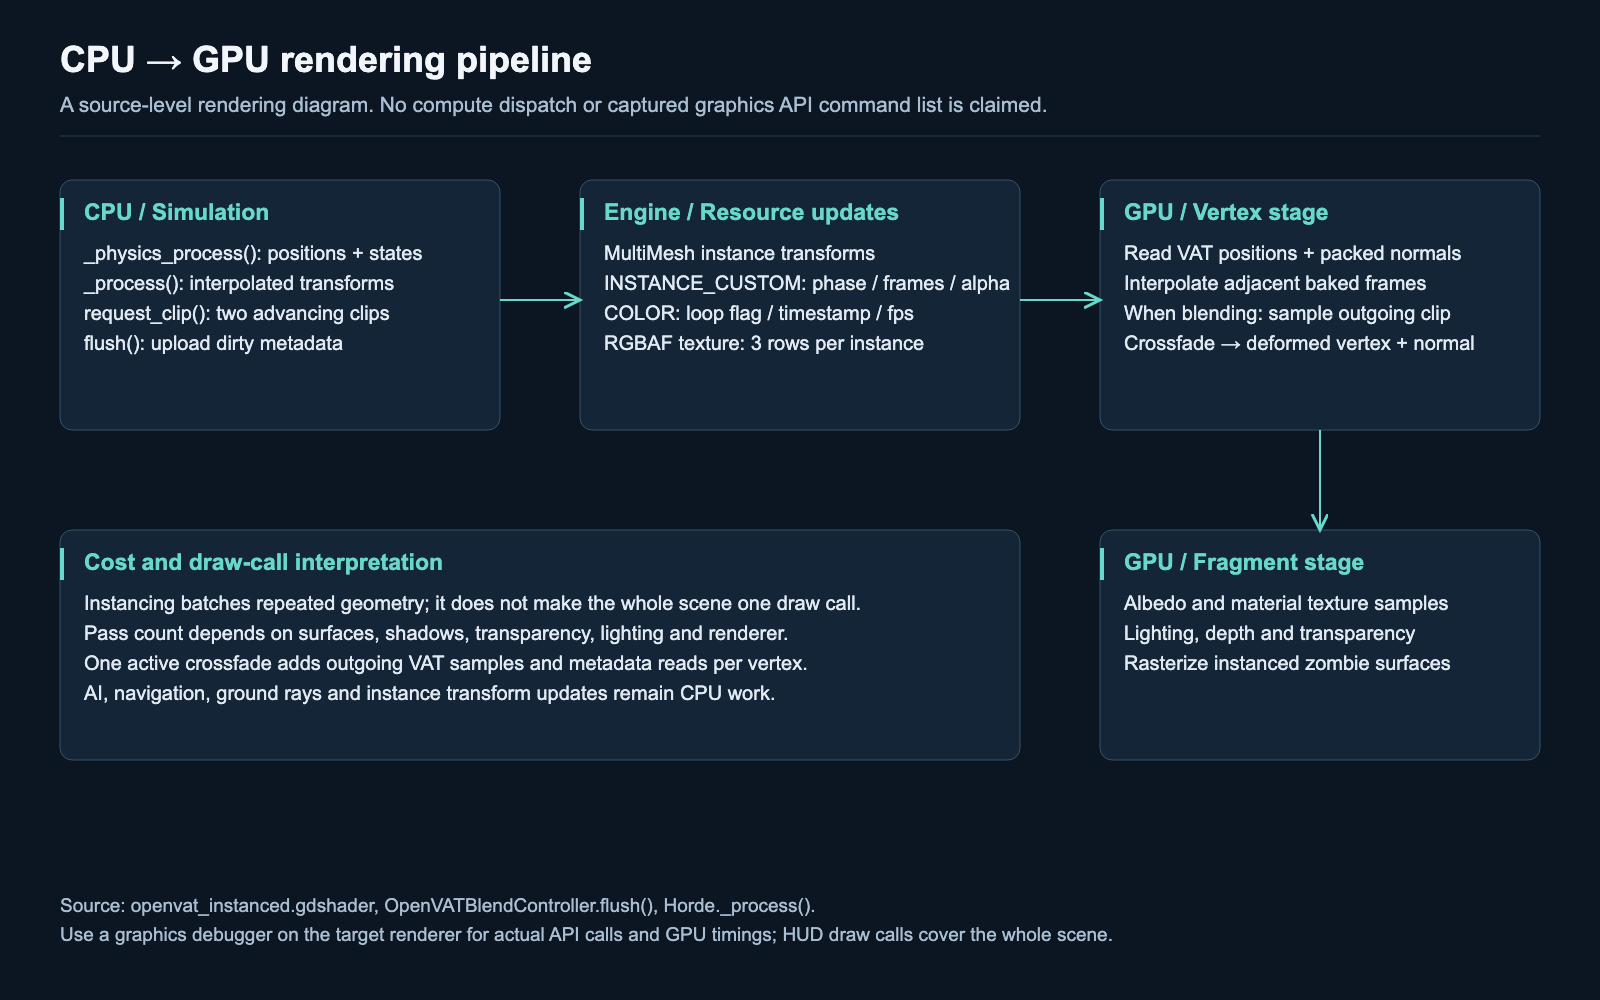
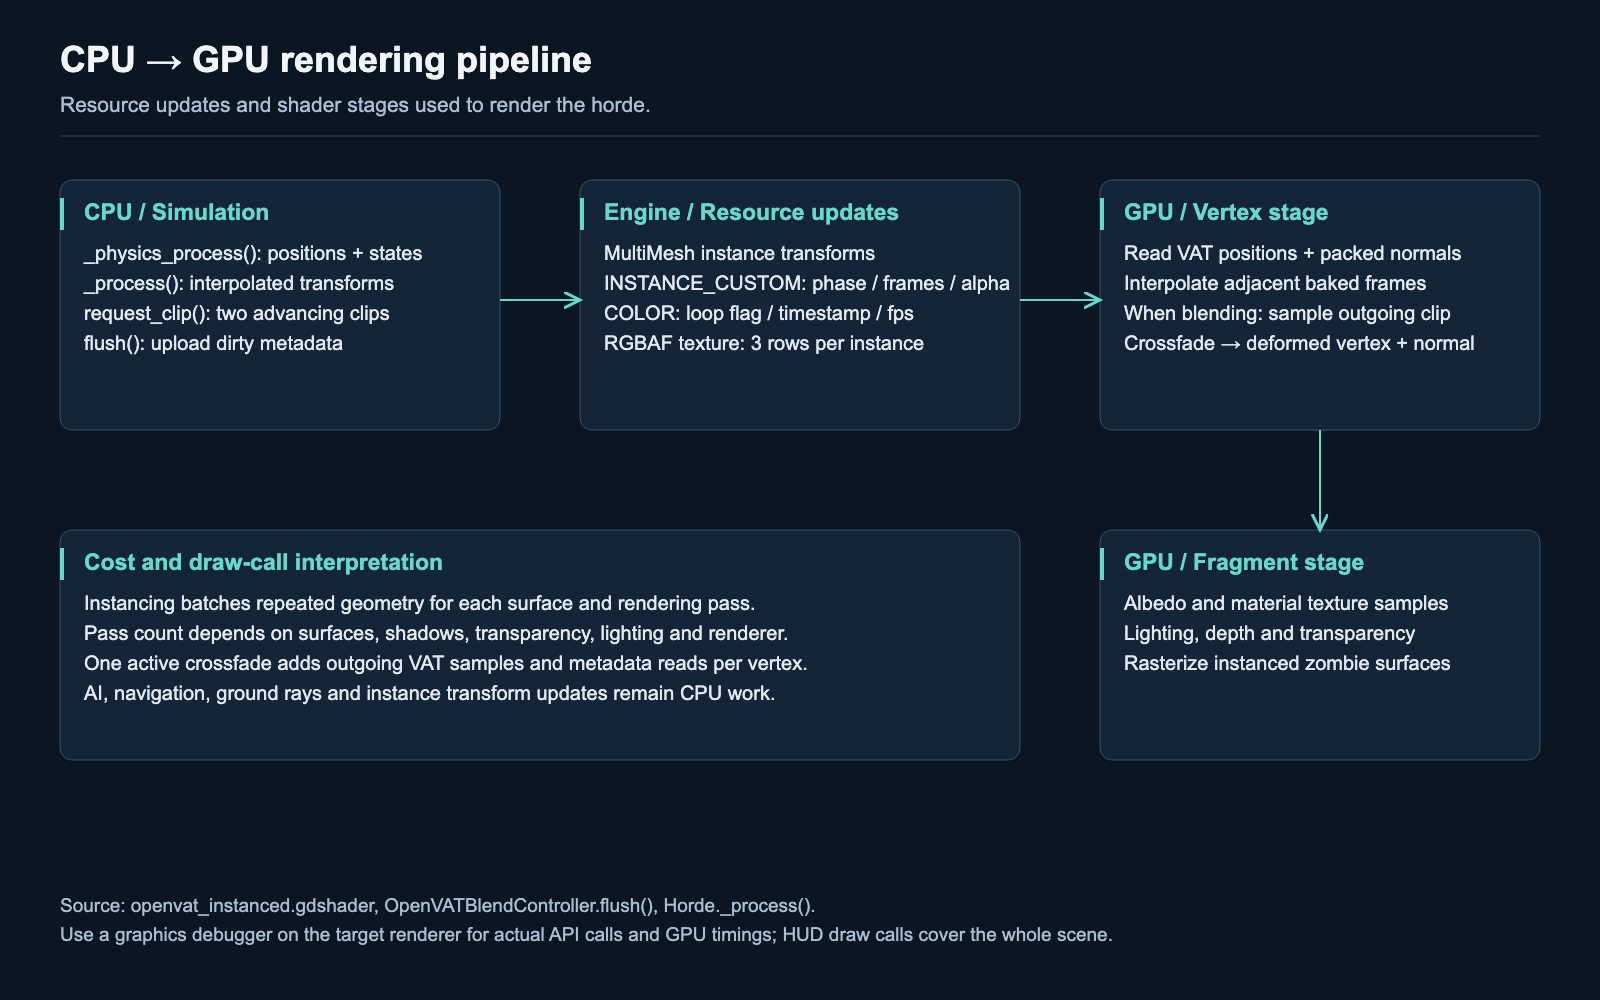
docs: write showcase documentation for repository visitors

Changed region(s): [[0.0312, 0.093, 0.6562, 0.124], [0.25, 0.589, 0.5312, 0.62]]

diff --git a/tools/build_diagrams.py b/tools/build_diagrams.py
@@ -28,12 +28,12 @@ diagram('workflow','Horde simulation workflow','Fixed physics updates own state.
 'Array iteration stays O(N). Spatial hashing narrows candidates; dense cells and path queues can still be costly.'
 ])
 
-diagram('gpu-pipeline','CPU → GPU rendering pipeline','A source-level rendering diagram. No compute dispatch or captured graphics API command list is claimed.',[
+diagram('gpu-pipeline','CPU → GPU rendering pipeline','Resource updates and shader stages used to render the horde.',[
 (60,180,440,250,'CPU / Simulation',['_physics_process(): positions + states','_process(): interpolated transforms','request_clip(): two advancing clips','flush(): upload dirty metadata']),
 (580,180,440,250,'Engine / Resource updates',['MultiMesh instance transforms','INSTANCE_CUSTOM: phase / frames / alpha','COLOR: loop flag / timestamp / fps','RGBAF texture: 3 rows per instance']),
 (1100,180,440,250,'GPU / Vertex stage',['Read VAT positions + packed normals','Interpolate adjacent baked frames','When blending: sample outgoing clip','Crossfade → deformed vertex + normal']),
 (1100,530,440,230,'GPU / Fragment stage',['Albedo and material texture samples','Lighting, depth and transparency','Rasterize instanced zombie surfaces']),
-(60,530,960,230,'Cost and draw-call interpretation',['Instancing batches repeated geometry; it does not make the whole scene one draw call.','Pass count depends on surfaces, shadows, transparency, lighting and renderer.','One active crossfade adds outgoing VAT samples and metadata reads per vertex.','AI, navigation, ground rays and instance transform updates remain CPU work.']),
+(60,530,960,230,'Cost and draw-call interpretation',['Instancing batches repeated geometry for each surface and rendering pass.','Pass count depends on surfaces, shadows, transparency, lighting and renderer.','One active crossfade adds outgoing VAT samples and metadata reads per vertex.','AI, navigation, ground rays and instance transform updates remain CPU work.']),
 ],['M500 300H580','M1020 300H1100','M1320 430V530'],[
 'Source: openvat_instanced.gdshader, OpenVATBlendController.flush(), Horde._process().',
 'Use a graphics debugger on the target renderer for actual API calls and GPU timings; HUD draw calls cover the whole scene.'
@@ -41,7 +41,7 @@ diagram('gpu-pipeline','CPU → GPU rendering pipeline','A source-level renderin
 
 diagram('spatial-and-lifecycle','Spatial queries and stable agent identity','Broad-phase lookup reduces candidate work; stable IDs keep delayed work valid when arrays compact.',[
 (60,180,700,270,'Spatial query path',['Position → floor(X / 5), floor(Z / 5) → cell key','rebuild_spatial_hash(): cell → agent array indices','query_radius() / query_aabb(): visit relevant cells','Narrow phase checks distance or hit geometry','Avoidance caps accepted neighbors at 8; candidates may exceed 8']),
-(840,180,700,270,'Deferred path request',['Queue stores zombie ID, rather than a temporary array index','process_path_requests() resolves ID at consumption time','Missing or dying agent → ignore stale request','Live agent → NavigationServer3D.map_get_path()','Budget limits queued requests, not every navigation call']),
+(840,180,700,270,'Deferred path request',['Queue stores a stable zombie ID','process_path_requests() resolves ID at consumption time','Missing or dying agent → ignore stale request','Live agent → NavigationServer3D.map_get_path()','Budget limits queued requests; brain paths run separately']),
 (60,550,700,210,'Example / remove slot 1',['Before: slots [0, 1, 2, 3] → IDs [10, 11, 12, 13]','die(1): move last slot and all related state to slot 1','After: visible slots [0, 1, 2] → IDs [10, 13, 12]']),
 (840,550,700,210,'Example / consume ID 13',['ID 13 now resolves to slot 1; animation phase is preserved','ID 11 resolves to -1; its queued work is discarded','MultiMesh allocation stays; visible_instance_count decreases']),
 ],['M410 450V550','M1190 450V550','M760 650H840'],[

diff --git a/README.md b/README.md
@@ -6,14 +6,21 @@ A standalone demonstration of Zmail's horde architecture: array-based enemy simu
 
 ## Run
 
-Open `project.godot` with Godot **4.6.1 or newer 4.6.x**, let asset import finish, then press **F6** on `showcase/main.tscn` or **F5**. No plugins need enabling, no terrain extension is required, and no parent-project files are loaded. Desktop Compatibility rendering is the tested configuration.
+Clone or download this repository:
+
+```sh
+git clone https://github.com/GarrettMcNeill2/horde-system-showcase.git
+cd horde-system-showcase
+```
+
+Open `project.godot` with Godot **4.6.1 or newer 4.6.x**, let asset import finish, then press **F6** on `showcase/main.tscn` or **F5**. Desktop Compatibility rendering is the tested configuration.
 
 ```sh
 godot --editor --path .
 godot --path .
 ```
 
-The runnable populations are **64 / 256 / 1,024**. These are selectable workloads, not performance guarantees. Click the arena to move the amber target; agents navigate and attack it.
+The runnable populations are **64 / 256 / 1,024**. Click the arena to move the amber target; agents navigate and attack it.
 
 | Control | Action |
 |---|---|
@@ -37,25 +44,25 @@ The runnable populations are **64 / 256 / 1,024**. These are selectable workload
 
 ![CPU to GPU pipeline](media/gpu-pipeline.svg)
 
-## Scope and provenance
+## Project layout
 
-The horde, geometry, effect settings, attack-area contract, VAT controller and runtime shader are source snapshots from the parent project. `showcase/` is a new presentation harness and minimal player adapter. The enemy scene is rebuilt without its large embedded mesh; the actual zombie GLB and VAT bake are loaded at runtime. There is no terrain, vehicle simulation, full game loop or dependency on the parent autoloads other than the copied effect settings.
+`showcase/` contains the arena, camera, controls and target. `scripts/enemies/` contains the horde simulation and hit geometry. `addons/openvat_animated/` contains the animation runtime and shader. Zombie models and animation textures load from `art/anims/zom/`.
 
-The flat navigation surface isolates behavior rather than demonstrating obstacle routing. The grid is a world reference aligned to the spatial cell size; it does not visualize occupied-cell membership. The renderer still handles several passes: MultiMesh batching does **not** imply one draw call for the scene. See [architecture](docs/architecture.md), [verification](docs/verification.md), and [credits](CREDITS.md).
+The demo uses a flat navigation surface and a 5 m reference grid. See [implementation details](docs/architecture.md), [test results](docs/verification.md), and [credits](CREDITS.md).
 
-## Showcase kit
+## Screenshots and diagrams
 
 | File | Use |
 |---|---|
-| `media/04-hero.png` | Clean website or GitHub cover; real engine capture |
+| `media/04-hero.png` | Arena view with the panel hidden |
 | `media/01-overview.png` | Whole horde with runtime metrics |
 | `media/02-close-view.png` | Closer animation and target view |
 | `media/03-spatial-grid.png` | Elevated arena and spatial cell scale |
 | `media/workflow.svg` | Simulation workflow graphic |
 | `media/gpu-pipeline.svg` | CPU/resource upload/vertex/fragment diagram |
 | `media/spatial-and-lifecycle.svg` | Spatial lookup and stable-ID compaction |
-| `docs/portfolio-copy.md` | Website copy, captions, alt text and walkthrough |
-| `docs/architecture.md` | Source map, tradeoffs and editable Mermaid flowcharts |
+| `docs/walkthrough.md` | Things to try in the demo |
+| `docs/architecture.md` | Simulation and rendering details |
 | `docs/source-manifest.json` | Checksums and exact snapshot provenance |
 
 All screenshots are 1600 × 900 PNGs. Diagrams are available as 1600 × 1000 PNGs and scalable SVGs with text and accessible titles. Regenerate the diagrams with `python3 tools/build_diagrams.py`.
@@ -69,6 +76,5 @@ godot --path . res://tests/smoke.tscn
 godot --path . res://tests/open_vat_blend_test.tscn
 ```
 
-Capture transitions are scheduled by physics ticks with a fixed random seed. Rendering rate and asynchronous engine work can still change exact pixels. The HUD reports whole-scene draw calls and process time, not horde-only draws or GPU time. `media/capture-observation.json` records one capture-run observation, not a benchmark.
+Capture transitions are scheduled by physics ticks with a fixed random seed. Rendering rate and asynchronous engine work can still change exact pixels. The HUD reports whole-scene draw calls and process time. `media/capture-observation.json` records a single capture run. Frame metrics can vary while screenshots are being saved.
 
-To make a separate GitHub repository, copy **the contents of this folder** as its root. `.godot/` is ignored. Review [credits and redistribution scope](CREDITS.md) before choosing a public repository license.

diff --git a/docs/architecture.md b/docs/architecture.md
@@ -10,7 +10,7 @@
 
 `Horde._physics_process()` updates brain intent, gravity, effects, individual states and movement. It stores current transforms, drains queued path requests, rebuilds the spatial hash and scans active attack areas. `_process()` advances the pause-aware animation clock, flushes blend metadata and interpolates previous/current world transforms before converting them to the moving MultiMesh's local space. Only transforms interpolate; clip frame indices remain discrete.
 
-`sync_animation_track()` maps states to VAT clips and chooses transition durations, one-shot behavior and attack playback rates. `OpenVATBlendController.request_clip()` records both clips' metadata; `flush()` updates the material clock and dirty texture. The shader samples adjacent frames for position and normals, optionally samples an advancing outgoing clip, then blends the decoded deformation. This is vertex-shader animation, not compute-shader AI or compute dispatch.
+`sync_animation_track()` maps states to VAT clips and chooses transition durations, one-shot behavior and attack playback rates. `OpenVATBlendController.request_clip()` records both clips' metadata; `flush()` updates the material clock and dirty texture. The shader samples adjacent frames for position and normals, optionally samples an advancing outgoing clip, then blends the decoded deformation. Animation deformation runs in the vertex shader; AI runs on the CPU.
 
 ```mermaid
 flowchart LR
@@ -51,13 +51,13 @@ flowchart LR
 ## Cost model and limits
 
 - Simulation, hash rebuilding and render transform updates iterate across the live population. Ground snapping performs physics rays. Navigation and AI remain CPU work.
-- The queued individual path budget controls queue consumption, not total frame time or the brain's direct navigation calls. `resolve_zombie()` linearly searches stable IDs; queue de-duplication and removing from its front also have scaling costs.
-- Cell queries reduce expected candidates for spread-out crowds. Avoidance caps accepted neighbors at eight, but building the candidate list can still traverse many agents in dense cells. This is not a guaranteed O(N) full-frame algorithm.
-- Swap removal copies the final live slot across related arrays and animation data, avoids shifting survivors, and retains the GPU allocation. It does not free memory until the horde is reset or destroyed.
-- Metadata storage is 3 × 16 bytes = 48 bytes per allocated agent before engine/texture overhead. `ImageTexture.update()` updates the metadata image when dirty; it is not a per-pixel partial upload API here.
+- The queued individual path budget controls queue consumption. Brain navigation calls run separately. `resolve_zombie()` linearly searches stable IDs; queue de-duplication and removing from its front also have scaling costs.
+- Cell queries reduce expected candidates for spread-out crowds. Avoidance caps accepted neighbors at eight, but building the candidate list can still traverse many agents in dense cells. Dense crowds can increase query costs substantially.
+- Swap removal copies the final live slot across related arrays and animation data, avoids shifting survivors, and retains the GPU allocation. Memory is released when the horde is reset or destroyed.
+- Metadata storage is 3 × 16 bytes = 48 bytes per allocated agent before engine/texture overhead. `ImageTexture.update()` uploads the complete metadata image when dirty.
 - Each ordinary VAT sample uses adjacent-frame position and normal reads. Crossfades add outgoing-clip reads plus metadata texture reads. Fragment material samples, transparent passes and shadows add separate cost.
-- MultiMesh batches repeated geometry by surface and rendering pass. The HUD is whole-scene draw count. It is not an API-call trace or horde-only count. No GPU timestamps were captured.
-- The world grid uses one antialiased shader plane. It illustrates cell size, not cell occupancy. The camera and UI are demonstration features, not part of the game horde.
+- MultiMesh batches repeated geometry by surface and rendering pass. The HUD is whole-scene draw count. GPU timestamp profiling remains untested.
+- The world grid uses one antialiased shader plane. It illustrates cell size. The arena script owns the camera and UI.
 - The arena has no obstacles and no terrain variation; those production cases are deliberately outside the isolated demo. Culling uses broad horde bounds, trading fine-grained culling for simpler batching.
 
 ## Relevant source

diff --git a/docs/verification.md b/docs/verification.md
@@ -16,22 +16,27 @@ The integration suite checks navigation synchronization, spawn count, movement, 
 
 The inherited VAT suite verifies per-instance metadata, clip requests, source-clip advancement, completion, zero capacity, respawn behavior and actual rendered vertex displacement during crossfades. See `integration-results.txt` and `vat-rendering-results.txt` for the recorded assertions.
 
-Both suites require a desktop renderer. A headless trial exercised simulation assertions but Godot's dummy renderer produced MultiMesh buffer diagnostics; it is not the supported validation command. The final graphical suites passed without those diagnostics.
+Both suites require a desktop renderer. Import assets before running either suite in a fresh clone.
 
-## Commands
+## Run the checks
 
 ```sh
 godot --headless --editor --path . --import --quit
 godot --path . res://tests/smoke.tscn
 godot --path . res://tests/open_vat_blend_test.tscn
+```
+
+## Capture screenshots
+
+```sh
 godot --path . -- --capture
 python3 tools/build_diagrams.py
 ```
 
-## Limits
+The capture command saves four viewport PNGs and exits. The Python command regenerates the SVG diagrams.
 
-No raw GPU API capture, GPU timestamp profile, sustained benchmark, executable export, Windows/Linux run, or public GitHub push was performed. Controls are exercised through the harness and integration methods; a full manual keyboard/mouse acceptance pass was not recorded. The flat arena does not prove obstacle navigation or uneven-terrain behavior. Asset import is required before running tests in a fresh clone.
+## Test coverage
 
-`capture-observation.json` is one short capture-run observation. FPS and process time in screenshots are transient whole-scene observations, not a comparative performance study. The screenshot process itself can affect frame metrics.
+Validation covers Godot 4.6.1 on an Apple M2 Pro using the Compatibility renderer. GPU API traces, GPU timings, sustained benchmarks, executable exports and Windows/Linux runtime checks remain untested. The automated checks exercise the arena methods; manual keyboard and mouse coverage is incomplete. Obstacle navigation and uneven terrain are outside this flat arena's coverage.
 
-For publishable performance numbers, run each population after warm-up, record hardware/OS/Godot/renderer/resolution, keep camera/target/seed fixed, gather frame-time samples for a stated duration, and compare medians and tail latency. Use the engine profiler to separate scripting, navigation, physics and rendering; use a renderer-compatible graphics debugger for the actual API command stream.
+`media/capture-observation.json` records one capture run. Screenshot capture can affect frame metrics. For performance comparisons, keep the hardware, renderer, resolution, population, camera and target fixed, allow a warm-up period, and record frame times over a stated duration.

diff --git a/CREDITS.md b/CREDITS.md
@@ -1,10 +1,11 @@
-# Provenance and redistribution
+# Credits
 
-The project packages the horde implementation from **Zmail / Wildcat Game Studios** for Garrett McNeill's portfolio. The new standalone harness, diagrams and documentation were prepared for this showcase. The zombie artwork was created by Garrett McNeill. Third-party tooling is credited separately.
+Horde system and zombie artwork by Garrett McNeill, developed for Zmail at Wildcat Game Studios.
 
-- `scripts/enemies/horde.gd`, geometry helpers, effect configuration, enums and attack-area script: copied from the working project. See `docs/source-manifest.json` for exact checksums.
-- `addons/openvat_animated/`: runtime components copied from the project's OpenVAT integration. The instanced shader credits Antz (2026) in its source. Existing blend-controller changes are preserved. Describe the portfolio work as horde architecture and its VAT integration; attribute OpenVAT tooling separately.
-- The existing OpenVAT shader-folder MIT notice is preserved verbatim at `addons/openvat_animated/shaders/LICENSE.txt` and names Luke Stilson (2024). Its stated scope is OpenVAT engine tools; the core OpenVAT tool has a separate license. No Blender addon or core baking tool is bundled here.
-- `art/anims/zom/`: zombie artwork created by Garrett McNeill, including the model and texture used by the bundled VAT assets. Garrett confirmed ownership and approved inclusion in the public portfolio demonstration.
+The demo includes the zombie model, texture, baked vertex animation texture and animation metadata. The horde scripts were extracted from Zmail; `docs/source-manifest.json` records their source checksums.
 
-The zombie artwork is cleared by its creator for inclusion in this showcase. No blanket license has been assigned to the source project or artwork; preserve the included third-party notices.
+## OpenVAT
+
+The animation runtime uses the project's OpenVAT integration. The instanced shader credits Antz (2026). The included engine-tools license names Luke Stilson (2024) and is available in `addons/openvat_animated/shaders/LICENSE.txt`. The core OpenVAT baking tool has a separate license.
+
+The project and artwork have no blanket license assigned. The included third-party license notice applies to its stated scope.

diff --git a/docs/walkthrough.md b/docs/walkthrough.md
@@ -1,0 +1,14 @@
+# Try the demo
+
+Start the project with F5. The arena opens with 256 zombies and an amber target.
+
+1. Click an empty part of the arena to move the target. Watch the horde change direction as queued paths are processed.
+2. Use the mouse wheel to zoom in. Individual zombies play the same animation at different phases and blend between clips as their state changes.
+3. Press Space to pause. Use the arrow keys to orbit the camera, then press Space to resume.
+4. Press K with a crowd near the target. Zombies finish their death animation before their instances are removed.
+5. Press R to reset, then B to abduct the brain. The horde dies in a staggered sequence.
+6. Press 1, 2 or 3 to compare populations of 64, 256 and 1,024 agents. The panel shows live agent count, occupied cells, pending paths and whole-scene rendering metrics.
+
+Press G to toggle the grid and Tab to hide the panel. F12 saves a screenshot in `media/`.
+
+For the implementation behind these behaviors, see [architecture.md](architecture.md). The [test instructions](verification.md) cover simulation and rendered animation checks.
